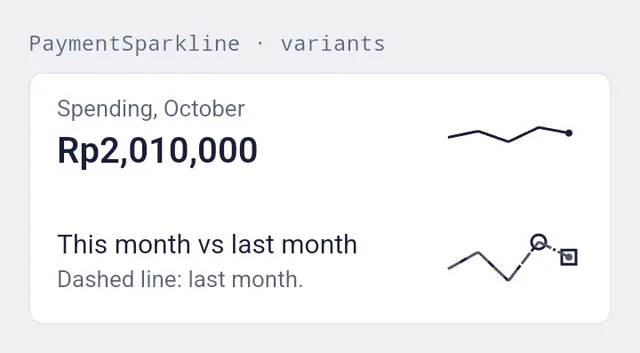
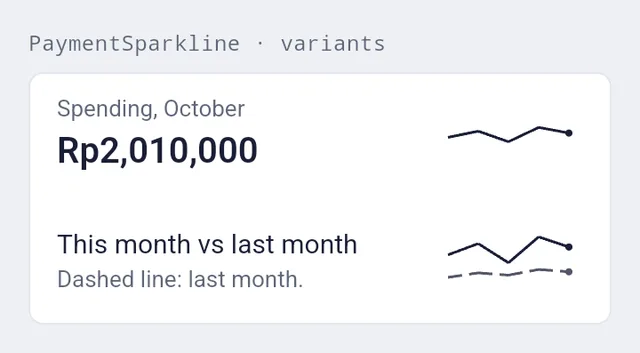
fix(docs): scope capture navigation to the app drawer; separate sparkline trends (#189, #185)
Selective catalog captures picked the first NavSidebar in the tree, which
on Kit components is a specimen inside the page list, so they could not
leave that page. openGalleryPage (shared in integration_test/support.dart)
now skips anything inside the gallery list.

The Sparkline comparison specimen used identical values for both series.
Last month is now its own settled, lower series. Regenerated the Android
light/dark specimen pair.

Changed region(s): [[0.6875, 0.6544, 0.9062, 0.8102]]

diff --git a/example/lib/screens/gallery_charts.dart b/example/lib/screens/gallery_charts.dart
@@ -225,7 +225,7 @@ class _ChartVariants extends StatelessWidget {
         measure: [92, 95, 88, 97, 99][i],
       ),
     );
-    if (kind == 'sparkline') return _sparklineVariants(context, series);
+    if (kind == 'sparkline') return _sparklineVariants(context);
     final chart = switch (kind) {
       'bar' => PaymentBarChart(series: series),
       'meter' => PaymentMeterChart(
@@ -313,10 +313,7 @@ class _ChartVariants extends StatelessWidget {
 
   // A sparkline sits beside a KPI the host already states, so the specimen
   // shows it in that row rather than alone in a chart-sized box.
-  Widget _sparklineVariants(
-    BuildContext context,
-    List<PaymentChartSeries> series,
-  ) {
+  Widget _sparklineVariants(BuildContext context) {
     final theme = PaymentTheme.of(context);
     Widget kpi(Widget text, Widget sparkline) => Row(
       children: [
@@ -372,7 +369,31 @@ class _ChartVariants extends StatelessWidget {
             ),
             PaymentSparkline(
               key: const Key('sparkline-inspect'),
-              series: series,
+              // Settled weeks in both series, last month lower throughout,
+              // so the two lines stay apart at the specimen's size (#185).
+              series: [
+                PaymentChartSeries(
+                  label: _t(context, 'This month', 'Bulan ini'),
+                  points: _chartFixture('typical', _t(context, 'Oct', 'Okt')),
+                ),
+                PaymentChartSeries(
+                  label: _t(context, 'Last month', 'Bulan lalu'),
+                  points: [
+                    for (final (i, value) in [
+                      150000,
+                      190000,
+                      170000,
+                      220000,
+                      200000,
+                    ].indexed)
+                      // Same week labels: series share one x axis.
+                      ChartPoint(
+                        label: '${1 + i * 7} ${_t(context, 'Oct', 'Okt')}',
+                        value: Money.idr(value),
+                      ),
+                  ],
+                ),
+              ],
               inspectable: true,
             ),
           ),

diff --git a/example/integration_test/support.dart b/example/integration_test/support.dart
@@ -22,6 +22,51 @@ Finder galleryList() => find.byWidgetPredicate(
       (widget.key! as PageStorageKey<String>).value.startsWith('gallery-'),
 );
 
+/// The gallery's own sidebar: in the drawer on phones, beside the body on
+/// wide layouts. Kit specimens render NavSidebars of their own in the page
+/// list, so skip anything inside it (#189).
+Finder gallerySidebar() => _outsideGallery((w) => w is NavSidebar);
+
+Finder _outsideGallery(bool Function(Widget) matches) =>
+    find.byElementPredicate((element) {
+      if (!matches(element.widget)) return false;
+      var inGallery = false;
+      element.visitAncestorElements((ancestor) {
+        final key = ancestor.widget.key;
+        inGallery =
+            key is PageStorageKey<String> && key.value.startsWith('gallery-');
+        return !inGallery;
+      });
+      return !inGallery;
+    }).first;
+
+/// Opens a gallery page by its [label] from the app's own navigation.
+Future<void> openGalleryPage(
+  WidgetTester tester,
+  String label, {
+  String menuTooltip = 'Open navigation',
+}) async {
+  final menu = _outsideGallery((w) => w is Tooltip && w.message == menuTooltip);
+  if (menu.evaluate().isNotEmpty) {
+    await tester.tap(menu);
+    await settle(tester);
+  }
+  final sidebar = gallerySidebar();
+  final item = find.descendant(of: sidebar, matching: find.text(label));
+  await tester.scrollUntilVisible(
+    item,
+    180,
+    scrollable: find
+        .descendant(of: sidebar, matching: find.byType(Scrollable))
+        .first,
+  );
+  // Centre the item: one at the drawer's bottom edge misses the tap.
+  await Scrollable.ensureVisible(tester.element(item), alignment: .5);
+  await settle(tester);
+  await tester.tap(item);
+  await settle(tester);
+}
+
 /// Leaves room for the crop cap between the measured app and navigation bars.
 Size catalogCaptureSize(WidgetTester tester, {double physicalWidth = 720}) {
   final view = tester.binding.renderViews.first;

diff --git a/example/integration_test/catalog_screenshots_test.dart b/example/integration_test/catalog_screenshots_test.dart
@@ -564,28 +564,11 @@ void main() {
         String? current;
         Future<void> openPage(String page) async {
           if (current == page) return;
-          final menu = find.byTooltip(id ? 'Buka navigasi' : 'Open navigation');
-          if (menu.evaluate().isNotEmpty) {
-            await tester.tap(menu);
-            await settle(tester);
-          }
-          final sidebar = find.byType(NavSidebar).first;
-          final item = find.descendant(
-            of: sidebar,
-            matching: find.text(id ? pages[page]! : page),
+          await openGalleryPage(
+            tester,
+            id ? pages[page]! : page,
+            menuTooltip: id ? 'Buka navigasi' : 'Open navigation',
           );
-          await tester.scrollUntilVisible(
-            item,
-            180,
-            scrollable: find
-                .descendant(of: sidebar, matching: find.byType(Scrollable))
-                .first,
-          );
-          // Centre the item: one at the drawer's bottom edge misses the tap.
-          await Scrollable.ensureVisible(tester.element(item), alignment: .5);
-          await settle(tester);
-          await tester.tap(item);
-          await settle(tester);
           current = page;
         }
 

diff --git a/example/test/gallery_docs_test.dart b/example/test/gallery_docs_test.dart
@@ -50,6 +50,32 @@ void main() {
     await tester.pumpWidget(const SizedBox());
   });
 
+  testWidgets('captures can leave Kit components past its sidebar specimen '
+      '(#189)', (tester) async {
+    tester.view.physicalSize = const Size(720, 1280);
+    tester.view.devicePixelRatio = 2;
+    addTearDown(tester.view.reset);
+    final app = await launch(tester);
+    app.updateSettings(const DemoSettings(locale: Locale('en')));
+    app.selectTab(2);
+    await settle(tester);
+    await openGalleryPage(tester, 'Kit components');
+    // Bring the page's own NavSidebar specimen into the tree.
+    final specimen = find.byType(NavSidebar).first;
+    await tester.scrollUntilVisible(
+      specimen,
+      600,
+      scrollable: find
+          .descendant(of: galleryList(), matching: find.byType(Scrollable))
+          .first,
+    );
+    await settle(tester);
+    await openGalleryPage(tester, 'Charts');
+    expect(find.byType(PaymentSparkline), findsWidgets);
+    expect(tester.takeException(), isNull);
+    await tester.pumpWidget(const SizedBox());
+  });
+
   testWidgets('English gallery table formats every fee and its total', (
     tester,
   ) async {
